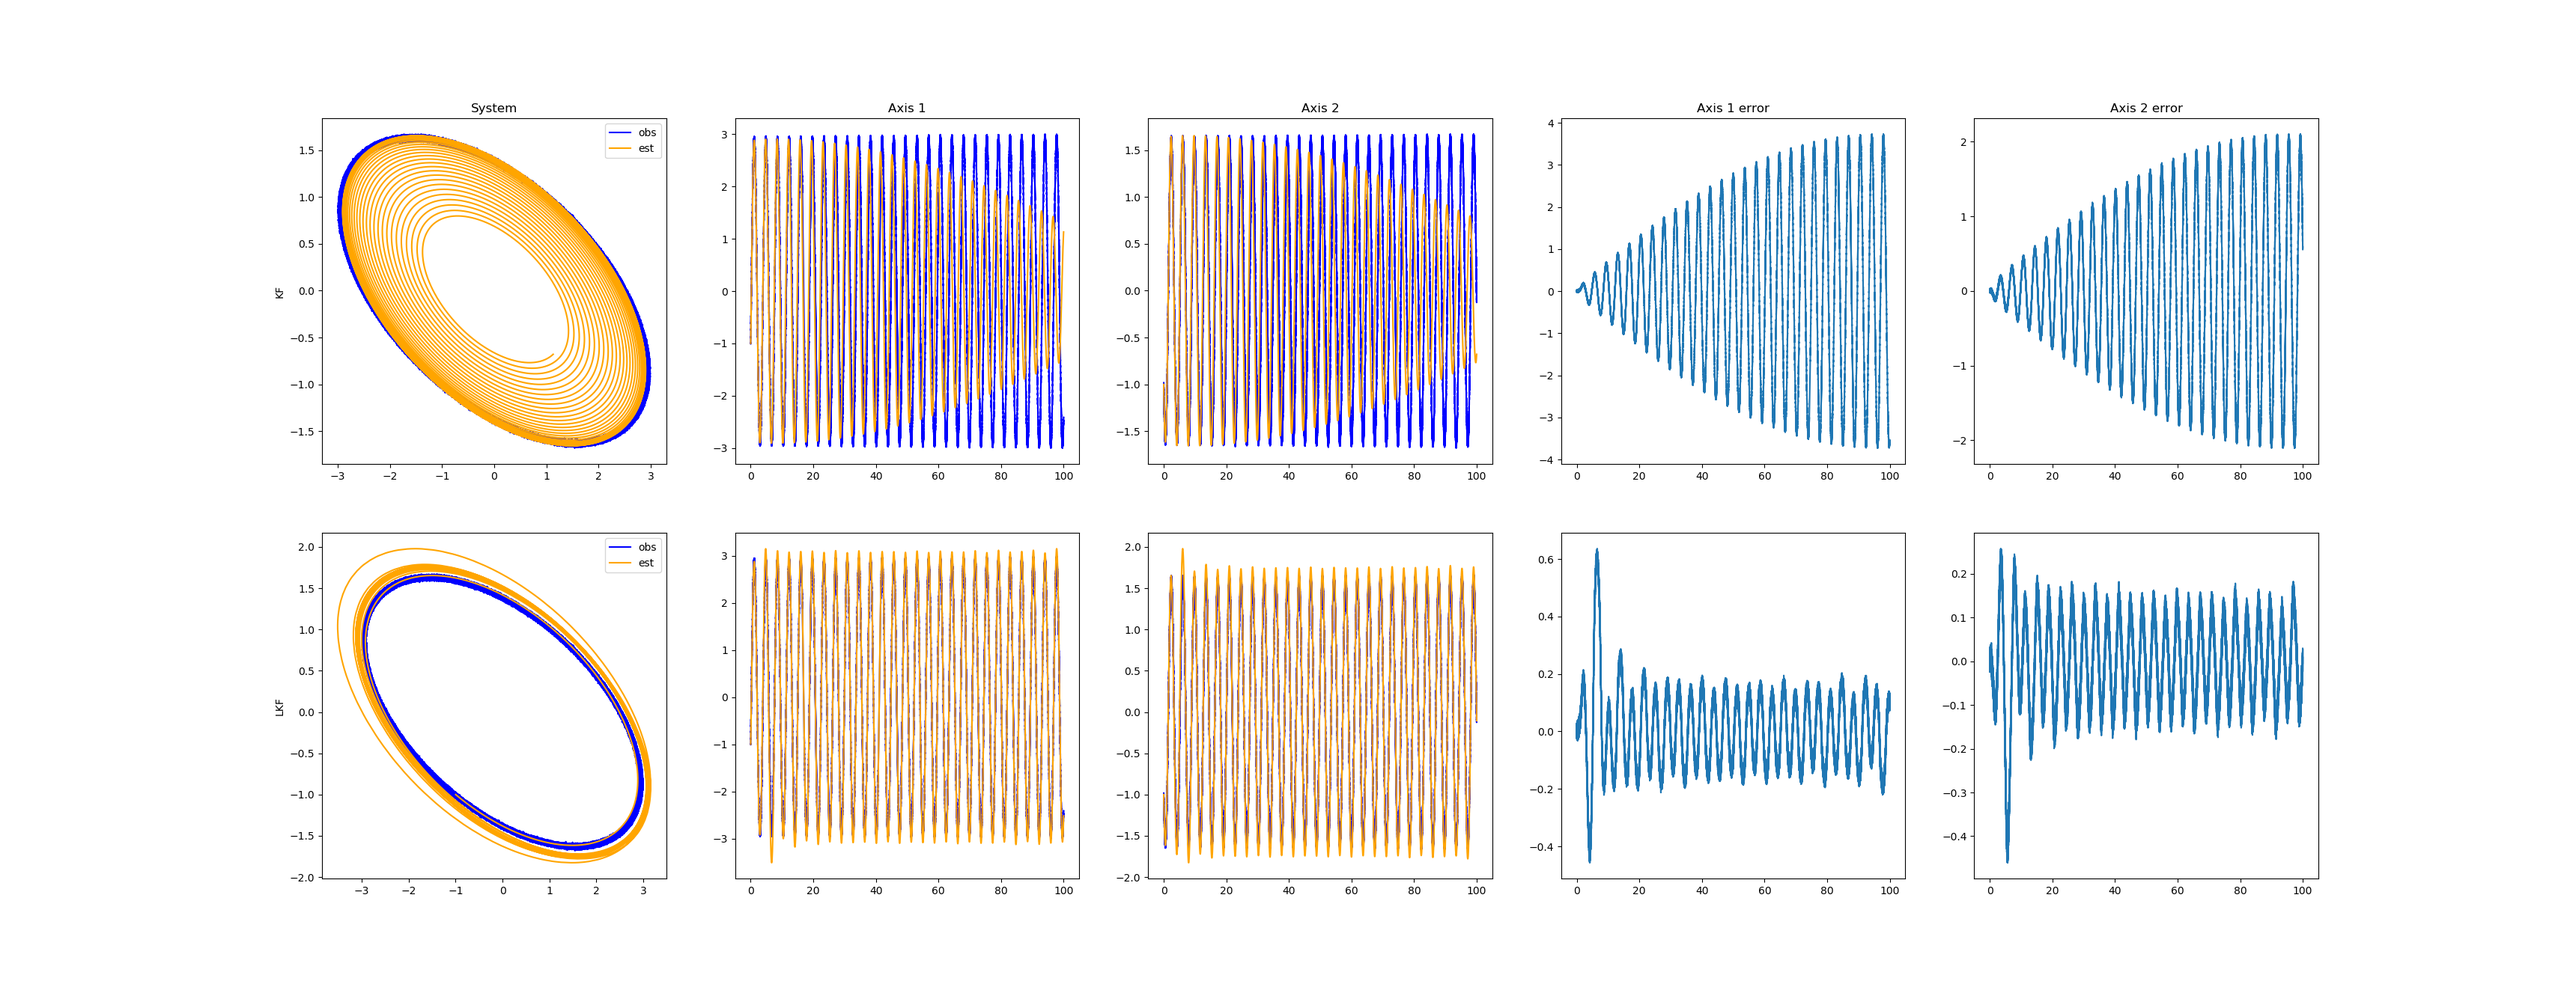
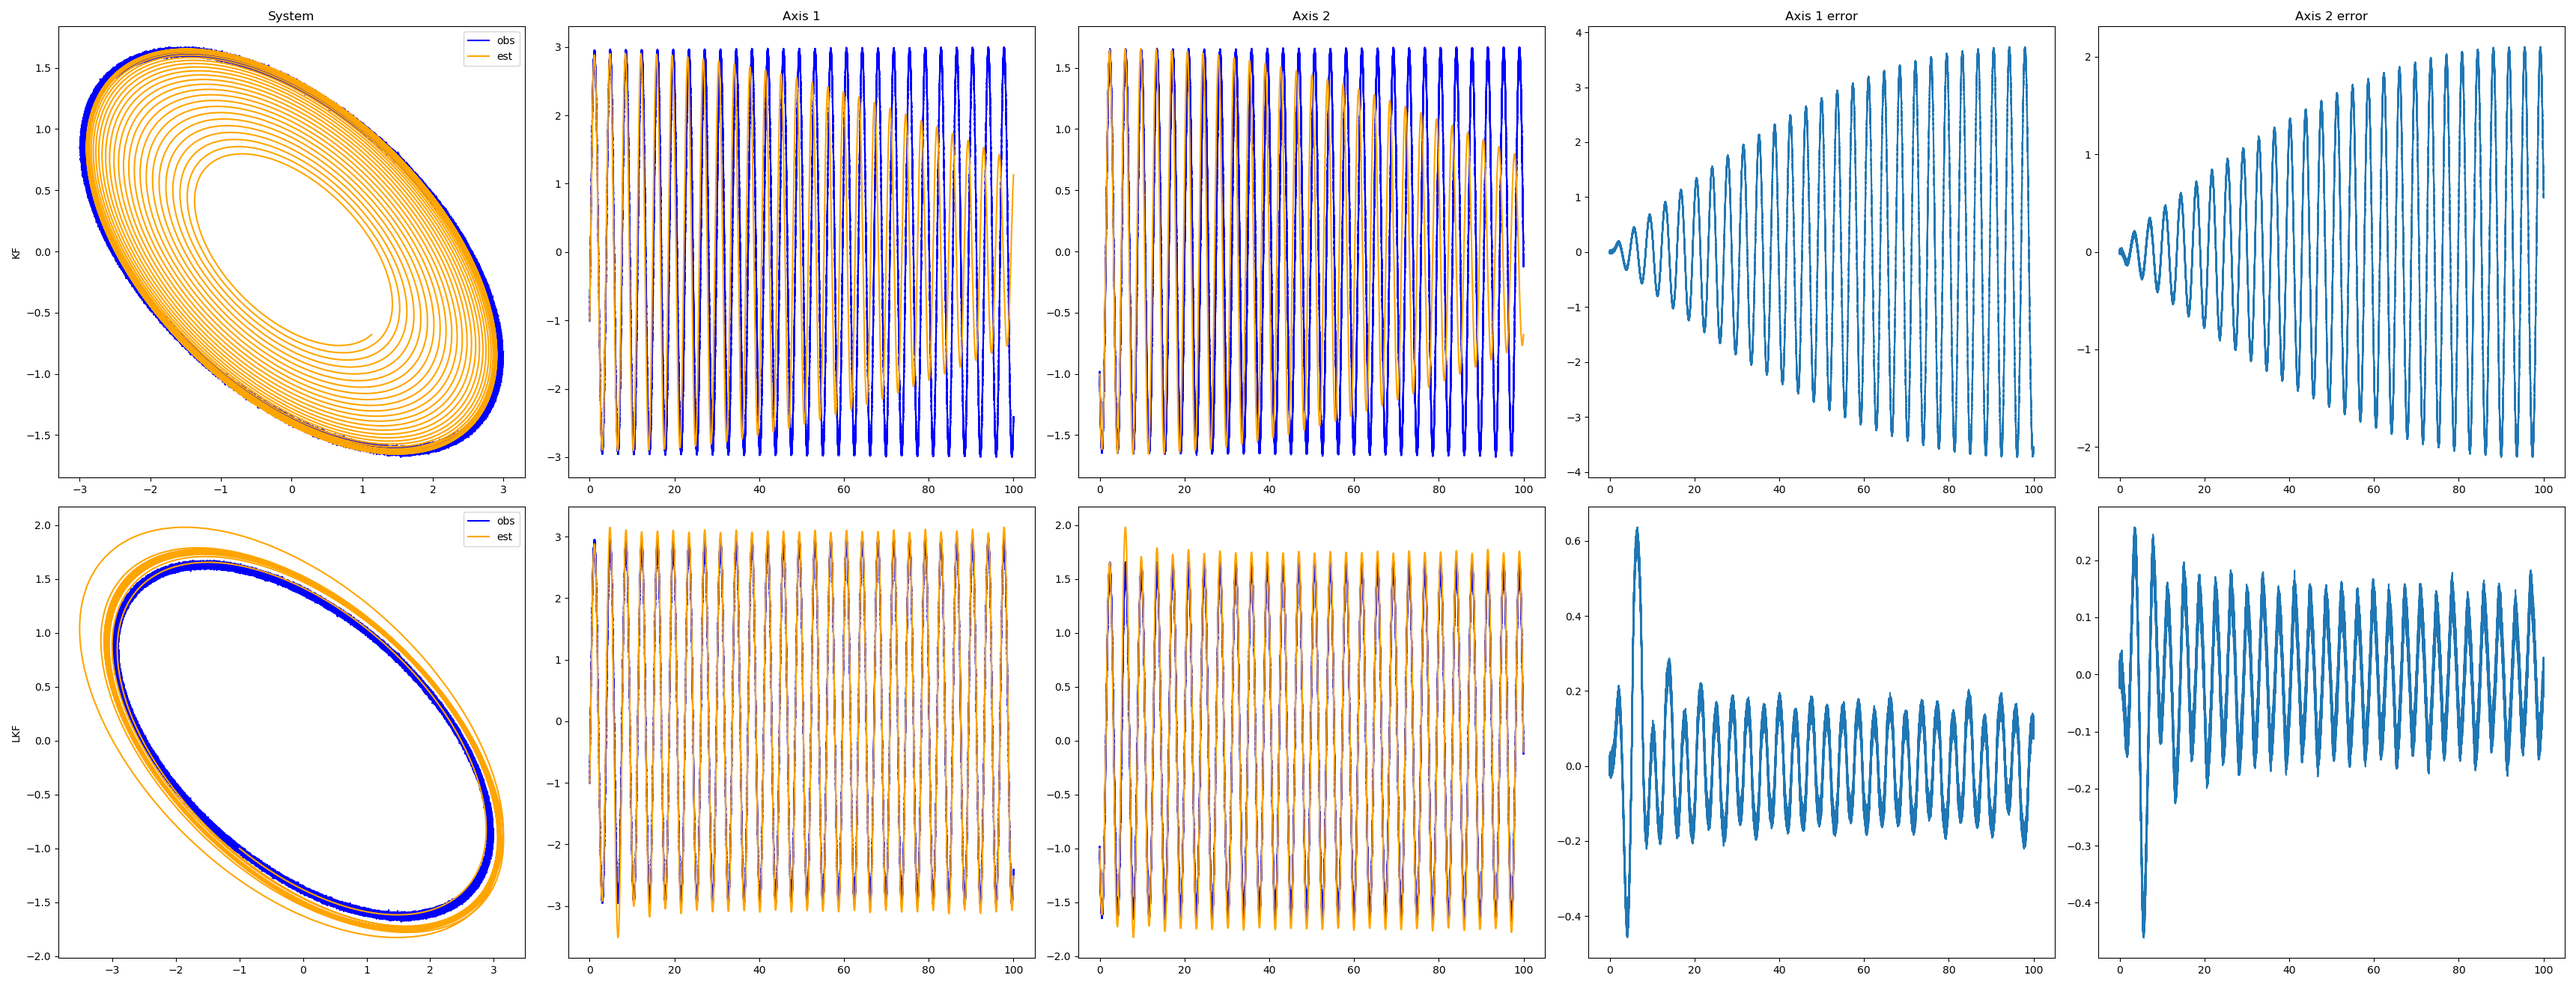
covariance offset may improve performance?

diff --git a/lkf.py b/lkf.py
@@ -25,6 +25,7 @@ class LKF(LSProcess):
 		self.ndim = x0.shape[0]
 
 		self.err_hist = []
+		self.P_hist = []
 		self.e_zz_t = np.zeros((self.ndim, self.ndim)) # temp var..
 		self.p_inv_t = np.zeros((self.ndim, self.ndim)) # temp var..
 
@@ -44,7 +45,9 @@ class LKF(LSProcess):
 
 				tau_n = int(self.tau / self.dt)
 				err_t, err_tau = err_hist[-1][:,np.newaxis], err_hist[-tau_n][:,np.newaxis]
-				d_zz = (err_t@err_t.T - err_tau@err_tau.T) / self.tau
+				p_t, p_tau = self.P_hist[-1], self.P_hist[-tau_n]
+				d_zz = (err_t@err_t.T - err_tau@err_tau.T) / self.tau - (p_t - p_tau) / self.tau
+				# d_zz = (err_t@err_t.T - err_tau@err_tau.T) 
 				self.e_zz_t = d_zz
 
 				# if np.linalg.norm(d_zz) >= 1.0:
@@ -91,6 +94,7 @@ class LKF(LSProcess):
 		self.r.set_f_params(z_t, self.err_hist, self.F(self.t))
 		self.r.integrate(self.t + self.dt)
 		x_t, P_t, eta_t = self.load_vars(self.r.y)
+		self.P_hist.append(P_t)
 		self.x_t, self.P_t, self.eta_t = x_t, P_t, eta_t
 		x_t = np.squeeze(x_t)
 		err_t = z_t - x_t@self.H.T
